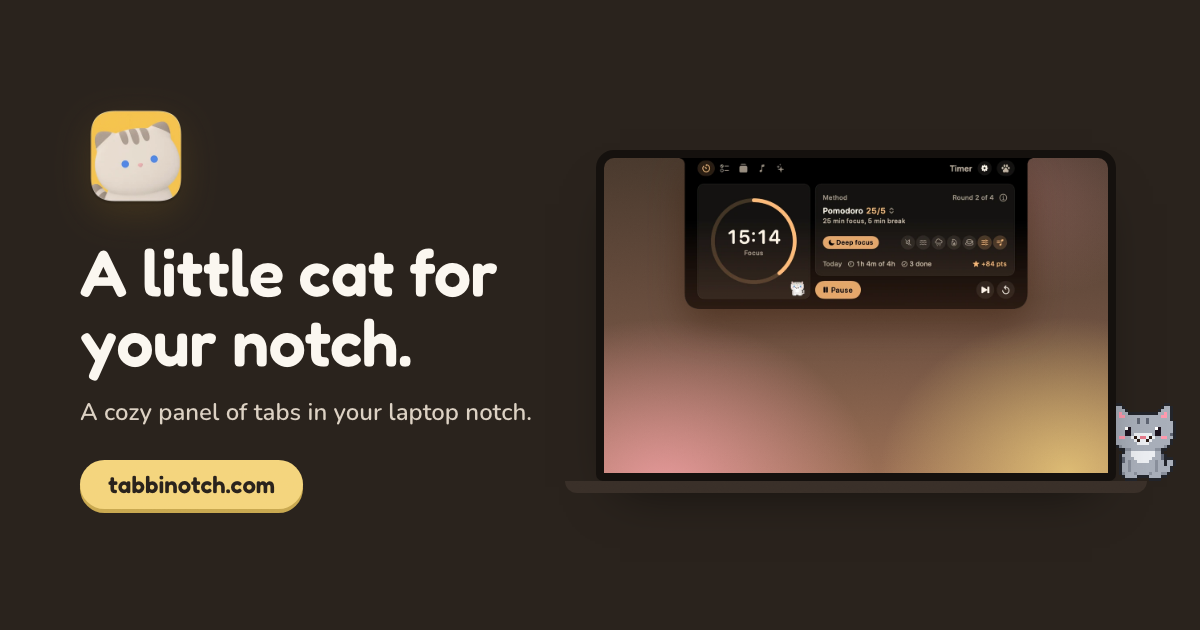
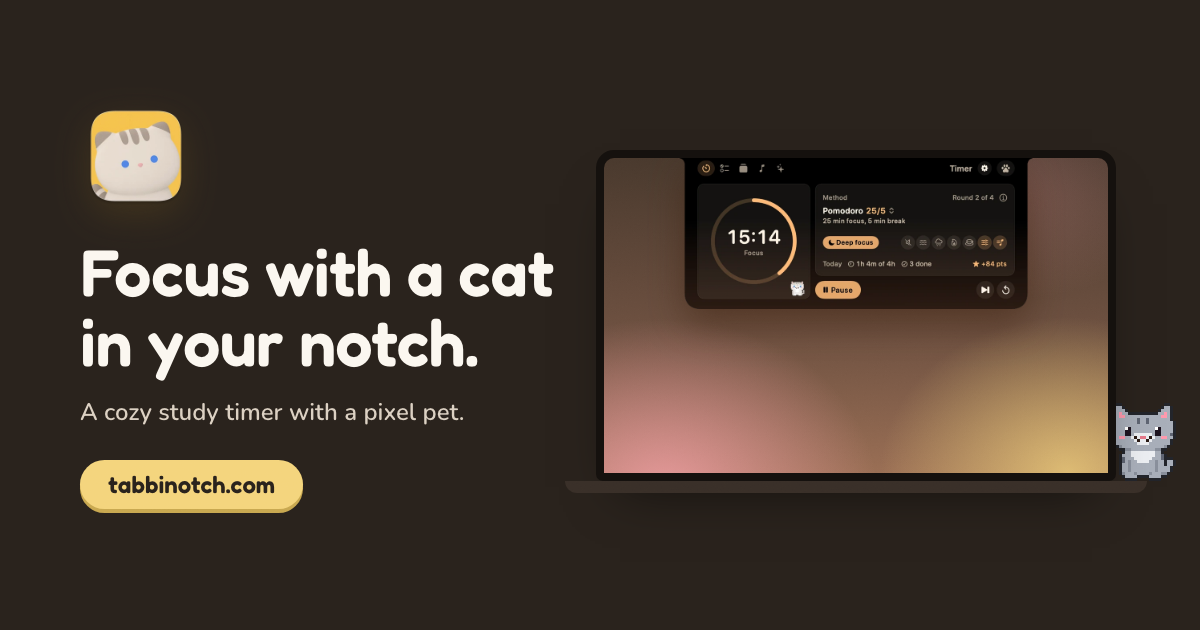
feat(site): Re-rendered the Open Graph and Twitter social card with the new home headline "Focus with a cat in your notch." and updated its alt text, so link previews now match the page.

Changed region(s): [[0.0617, 0.3921, 0.4625, 0.4825], [0.0617, 0.5127, 0.4008, 0.6032], [0.1233, 0.6333, 0.4317, 0.6937]]

diff --git a/site/_social-card.html b/site/_social-card.html
@@ -18,6 +18,6 @@ background:radial-gradient(70% 90% at 12% 105%,rgba(242,160,166,.85),transparent
 .base{position:relative;z-index:1;width:112%;margin-left:-6%;height:12px;background:#3A3029;border-radius:0 0 14px 14px;box-shadow:0 18px 30px -12px rgba(0,0,0,.55)}
 .cat{position:absolute;right:-60px;bottom:12px;width:66px;height:78px;background:url('img/pixel-cat.png') 0 0/200% 100% no-repeat;image-rendering:pixelated}
 </style></head><body>
-<div class="copy"><img class="icon" src="img/icon-256.webp" alt=""><h1>A little cat for your notch.</h1><p>A cozy panel of tabs in your laptop notch.</p><span class="url">tabbinotch.com</span></div>
+<div class="copy"><img class="icon" src="img/icon-256.webp" alt=""><h1>Focus with a cat<br>in your notch.</h1><p>A cozy study timer with a pixel pet.</p><span class="url">tabbinotch.com</span></div>
 <div class="laptop"><div class="cat"></div><div class="screen"><img class="panel" src="img/notch-timer.webp" alt=""></div><div class="base"></div></div>
 </body></html>

diff --git a/site/_partials.py b/site/_partials.py
@@ -104,12 +104,12 @@ def page(slug, title, description, body, hero=None, wide=False, indexable=True, 
   <meta property="og:image" content="{ORIGIN}/img/social-preview.png">
   <meta property="og:image:width" content="1200">
   <meta property="og:image:height" content="630">
-  <meta property="og:image:alt" content="The Tabbi icon and the line A little cat for your notch, beside a laptop with the Timer tab open in its notch">
+  <meta property="og:image:alt" content="The Tabbi icon and the line Focus with a cat in your notch, beside a laptop with the Timer tab open in its notch">
   <meta name="twitter:card" content="summary_large_image">
   <meta name="twitter:title" content="{title_attr}">
   <meta name="twitter:description" content="{desc_attr}">
   <meta name="twitter:image" content="{ORIGIN}/img/social-preview.png">
-  <meta name="twitter:image:alt" content="The Tabbi icon and the line A little cat for your notch, beside a laptop with the Timer tab open in its notch">
+  <meta name="twitter:image:alt" content="The Tabbi icon and the line Focus with a cat in your notch, beside a laptop with the Timer tab open in its notch">
   <link rel="icon" href="/favicon.ico" sizes="48x48">
   <link rel="icon" href="/img/favicon-64.png" type="image/png" sizes="64x64">
   <link rel="apple-touch-icon" href="/img/apple-touch-icon.png">
